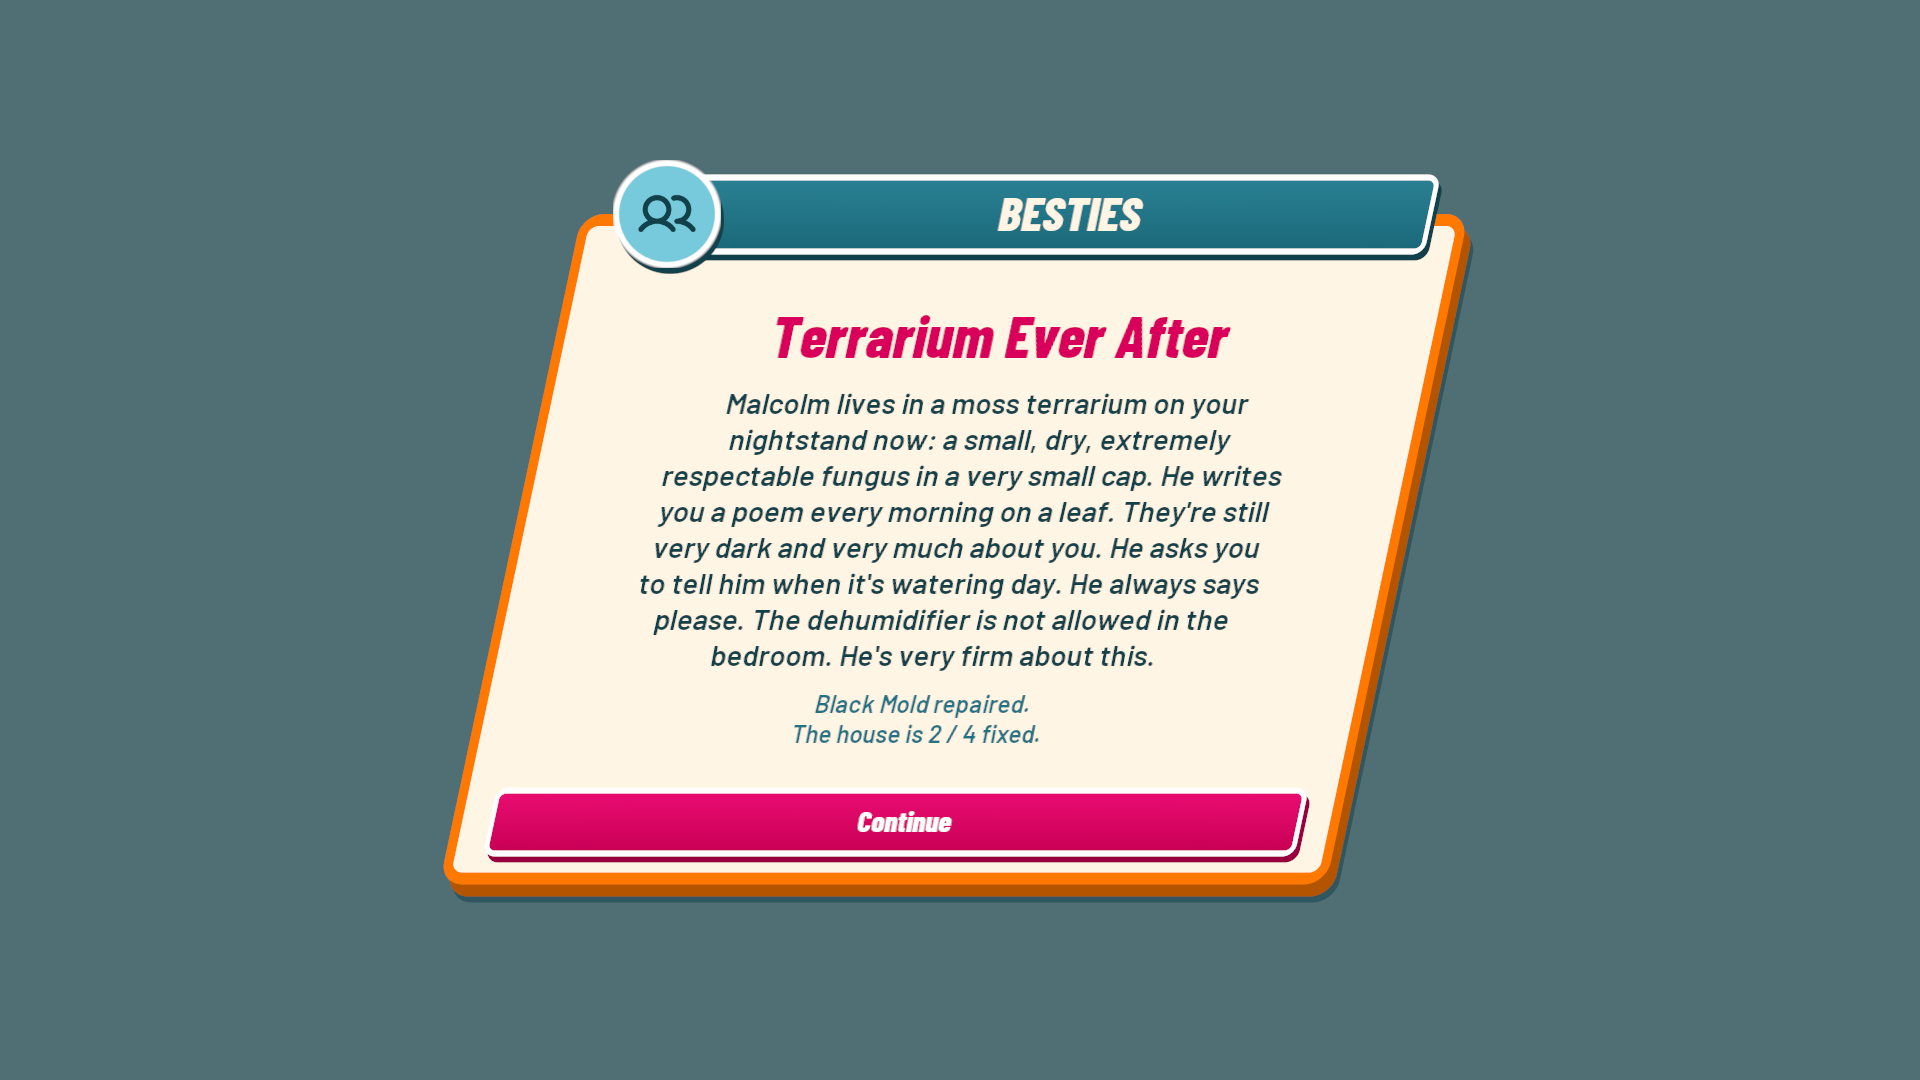
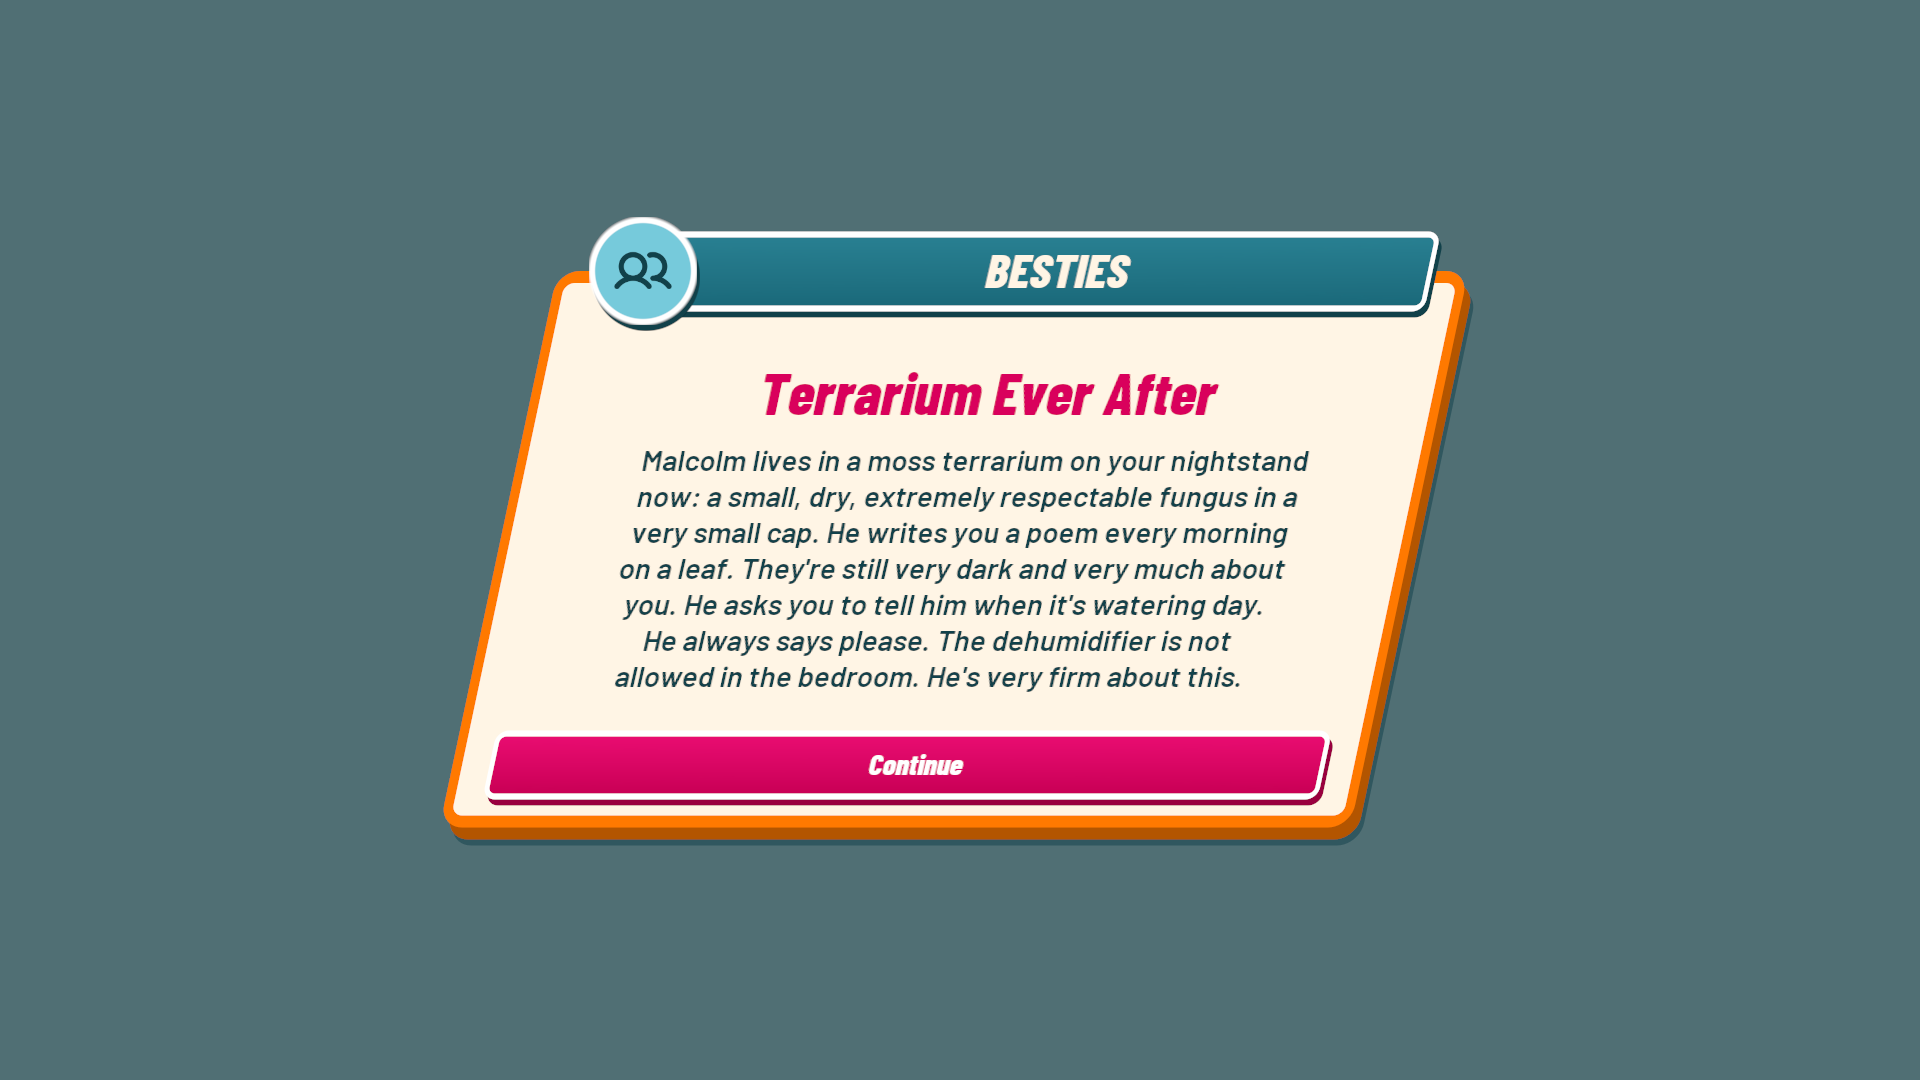
Ending card: repair and tally move to the HUD header
While the ending card is up, the HUD is re-added above its scrim with only
its header: room, a '<malady> repaired.' toast at top centre, week and the
updated repairs count. The card drops its repaired/tally lines; only the
final repair's closing line remains. Restored when the card closes.

Changed region(s): [[0.2188, 0.1528, 0.7812, 0.8556]]

diff --git a/Source/ICanFixHim/UI/FixHimCards.cpp b/Source/ICanFixHim/UI/FixHimCards.cpp
@@ -294,11 +294,11 @@ void UFixHimEndingCardWidget::Setup(const FHunkDefinition& Def, const FString& E
 	const FString PlayerName = SaveSub ? SaveSub->GetPlayerName() : UFixHimSettings::Get()->PlayerName;
 	Body->SetText(FText::FromString(Ending ? Ending->Text.Replace(TEXT("{player}"), *PlayerName) : FString()));
 
-	// The house tally gets its own line, with non-breaking spaces so it never splits.
-	FString Tally = FString::Printf(TEXT("The house is %d / %d fixed."), FixedCount, TotalCount);
-	Tally.ReplaceInline(TEXT(" "), TEXT("\u00A0"));
-	const FString Fixed = FString::Printf(TEXT("%s repaired.\n%s"), *Def.Malady, *Tally);
-	Progress->SetText(FText::FromString(FixedCount >= TotalCount ? Fixed + TEXT("\nEvery man in this house has been fixed. Or at least seen. Home sweet home.") : Fixed));
+	// The repair and the house tally are on the HUD header above the card (AFixHimPlayerController::HandleConversationEnded).
+	// Only the closing line for the final repair stays on the card.
+	const bool bAllFixed = FixedCount >= TotalCount;
+	Progress->SetText(FText::FromString(bAllFixed ? TEXT("Every man in this house has been fixed. Or at least seen. Home sweet home.") : TEXT("")));
+	Progress->SetVisibility(bAllFixed ? ESlateVisibility::HitTestInvisible : ESlateVisibility::Collapsed);
 }
 
 bool UFixHimEndingCardWidget::HandleClickOutside()

diff --git a/Source/ICanFixHim/Tests/FixHimDesignSystemTest.cpp b/Source/ICanFixHim/Tests/FixHimDesignSystemTest.cpp
@@ -368,6 +368,15 @@ bool FFixHimDesignSystemTest::RunTest(const FString &Parameters)
 	HUD->SetReticle(true, EFixHimInteractionAction::Talk, FText::FromString(TEXT("Talk to Wyatt")));
 	HUD->ShowToast(TEXT("A little less broken."), 4.f, false);
 	Render(HUD, TEXT("17-hud-labels"), {1920, 1080}, {1920, 1080});
+	// Over the ending card the HUD shows only its header, with the repair as the toast (composited for review).
+	auto *EndingHUD = Make.template operator()<UFixHimHUDWidget>();
+	EndingHUD->TakeWidget();
+	EndingHUD->SetRoomName(FText::FromString(TEXT("Basement")));
+	EndingHUD->SetRepairs(2, 4, 2, 4);
+	EndingHUD->SetReticle(false, EFixHimInteractionAction::None, FText::GetEmpty());
+	EndingHUD->SetHeaderOnly(true);
+	EndingHUD->ShowToast(TEXT("Black Mold repaired."), TNumericLimits<float>::Max(), false);
+	Render(EndingHUD, TEXT("14-ending-card-hud"), {1920, 1080}, {1920, 1080});
 	// Every audited authored exchange is also rendered unshortened, including active topic links.
 	int32 FixtureIndex = 0;
 	for (const auto &Value : Fixtures->GetArrayField(TEXT("fixtures")))

diff --git a/Source/ICanFixHim/Player/FixHimPlayerController.cpp b/Source/ICanFixHim/Player/FixHimPlayerController.cpp
@@ -977,6 +977,13 @@ void AFixHimPlayerController::CloseEndingCard()
 {
 	HideWidget(EndingWidget);
 	EndingWidget = nullptr;
+	if (HUDWidget)
+	{
+		HUDWidget->HideToast();
+		HUDWidget->SetHeaderOnly(false);
+		HideWidget(HUDWidget);
+		ShowWidget(HUDWidget, 0);
+	}
 	if (State == EFixHimState::Ending)
 	{
 		EnterState(EFixHimState::Playing);
@@ -1179,6 +1186,15 @@ void AFixHimPlayerController::HandleConversationEnded(const FString& HunkId, con
 		ShowWidget(EndingWidget, 35);
 		EndingWidget->Setup(*Def, EndingId, Dialogue->CountFixedStoryHunks(), Dialogue->CountStoryHunks());
 		EnterState(EFixHimState::Ending);
+		// The HUD header reports the repair over the card: room, "<malady> repaired" toast, week and the updated
+		// repairs count. Re-added above the card's scrim until the card closes.
+		if (HUDWidget)
+		{
+			HideWidget(HUDWidget);
+			ShowWidget(HUDWidget, 36);
+			HUDWidget->SetHeaderOnly(true);
+			HUDWidget->ShowToast(FString::Printf(TEXT("%s repaired."), *Def->Malady), TNumericLimits<float>::Max(), false);
+		}
 	}
 	else
 	{

diff --git a/Source/ICanFixHim/UI/FixHimHUDWidget.cpp b/Source/ICanFixHim/UI/FixHimHUDWidget.cpp
@@ -279,6 +279,19 @@ void UFixHimHUDWidget::SetRepairs(int32 Fixed, int32 Total, int32 Week, int32 Nu
 	}
 }
 
+void UFixHimHUDWidget::HideToast()
+{
+	ToastTime = 0.f;
+	if (ToastPill)
+		ToastPill->SetVisibility(ESlateVisibility::Collapsed);
+}
+
+void UFixHimHUDWidget::SetHeaderOnly(bool bHeaderOnly)
+{
+	if (ControlHint)
+		ControlHint->SetVisibility(bHeaderOnly ? ESlateVisibility::Collapsed : ESlateVisibility::HitTestInvisible);
+}
+
 void UFixHimHUDWidget::ShowToast(const FString& Message, float Seconds, bool bChime)
 {
 	if (!ToastPill)

diff --git a/Source/ICanFixHim/UI/FixHimHUDWidget.h b/Source/ICanFixHim/UI/FixHimHUDWidget.h
@@ -25,6 +25,9 @@ public:
 	void SetRoomName(const FText& Name);
 	void SetRepairs(int32 Fixed, int32 Total, int32 Week = 0, int32 NumWeeks = 0);
 	void ShowToast(const FString& Message, float Seconds = 2.f, bool bChime = true);
+	void HideToast();
+	/** Only the header (room, toast, week and repairs): hides the control hint, e.g. over the ending card. */
+	void SetHeaderOnly(bool bHeaderOnly);
 
 protected:
 	virtual void BuildUI() override;

diff --git a/docs/03 Art & Audio/UI Design System.md b/docs/03 Art & Audio/UI Design System.md
@@ -73,6 +73,7 @@ The selected treatment restores **rounded corners, thicker asymmetric borders an
 - **Text is vertically centred on the face** of every button, header and plate: bottom padding = top padding + the extrusion reserve (keyline + 3), and labels lift by 0.05 em so capitals (not the font's line box) sit on the centre. Buttons carry 16 units of vertical padding.
 - The title screen shows only the logo and menu: no tagline, event footer or backdrop panel. The logo sits centred over a straight stack of large standalone buttons on the left of the scene, as in the title concept. The buttons are taller, with 32-unit labels and the popup shadow.
 - Button icons are orange on cream buttons and white on pink ones.
+- While an ending card is up, the HUD header stays visible above its dim overlay. The toast at top centre reports the repair (for example "Black Mold repaired.") and the repairs badge shows the new count, so the card itself carries no tally. Only the final repair's closing line stays on the card.
 - Ending cards name the ending on the title plate, with a round badge on the plate's left edge for its kind, using the meter icons: heart (pink) for romance, users (friendship blue) for friendship, flame (orange) for a failed ending.
 - **Popup and sheet headers** are teal plates straddling the surface's top edge: the plate face is centred vertically on that edge and inset equally from both slanted sides.
 - Dialogue shows **no character portrait**; the character is present in the scene.
